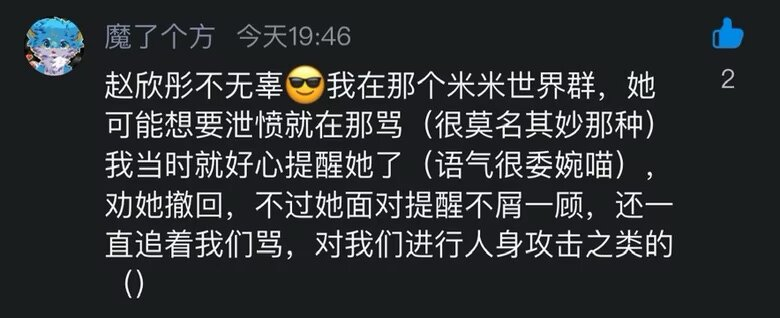
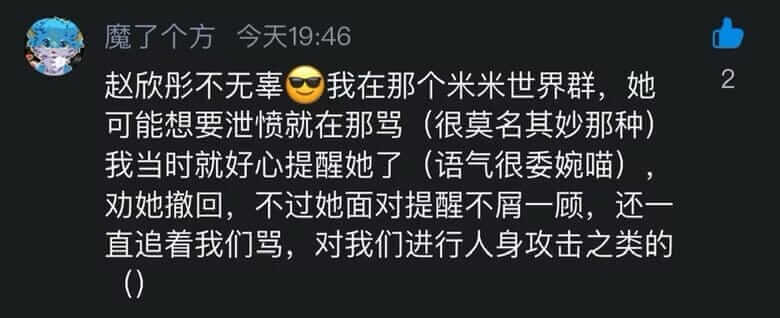
压缩图片大小

diff --git a/shen.md b/shen.md
@@ -3,7 +3,7 @@
 > 
 > 以下内容均为AI生成，内容可能会**令人不适**
 >
-> 图片太多，翻累了可以点击目录
+> 图片太多，翻累了可以点击目录快速跳转
 > 
 > 随时欢迎私信BOT主投稿
 ## 1.QQID:367****879

diff --git a/README.md b/README.md
@@ -1,3 +1,4 @@
-# mzkbot的官方网站源码
+# 这是mzkbot的官方网站源码
 
+网站地址:
 https://yonglanws.github.io/mzkbot_web/
